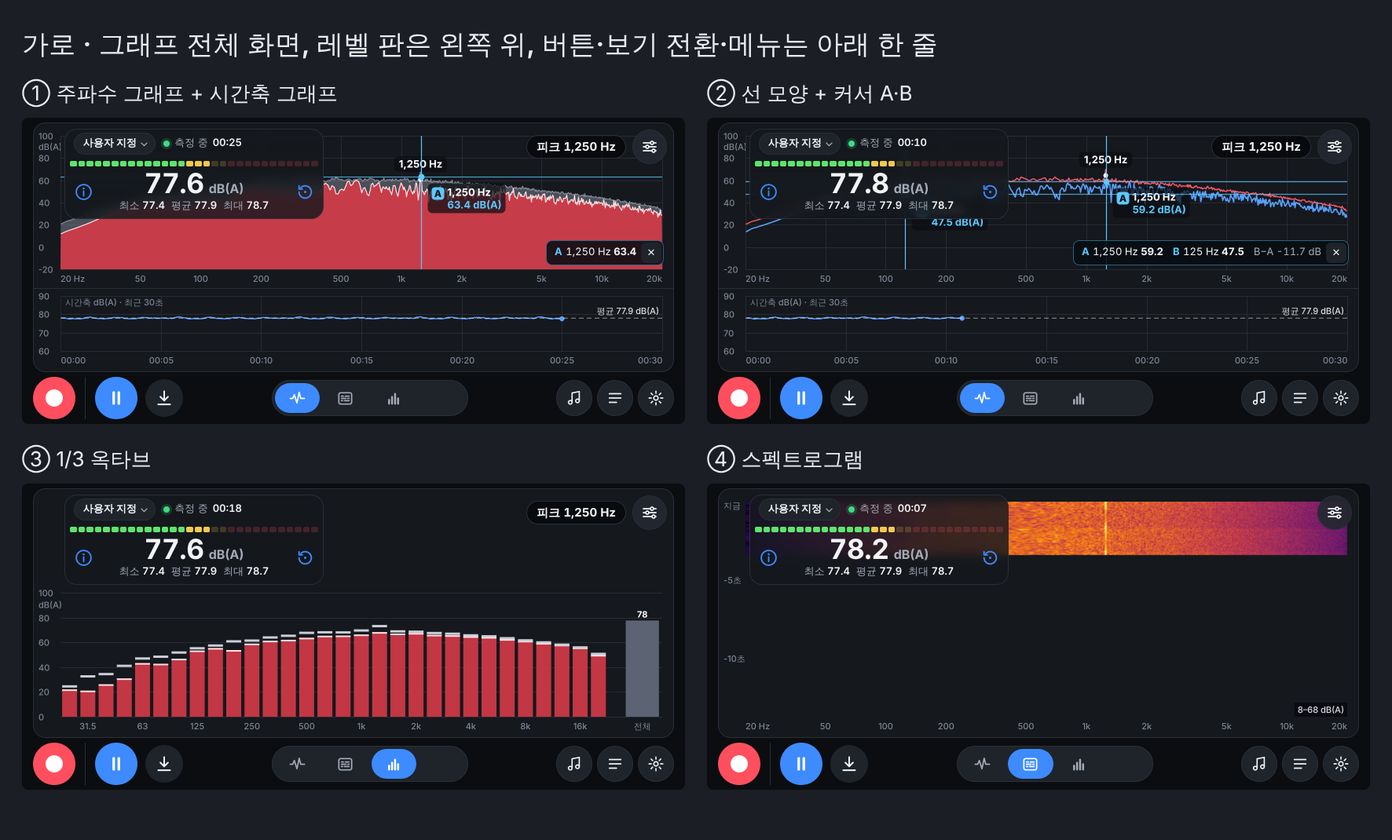
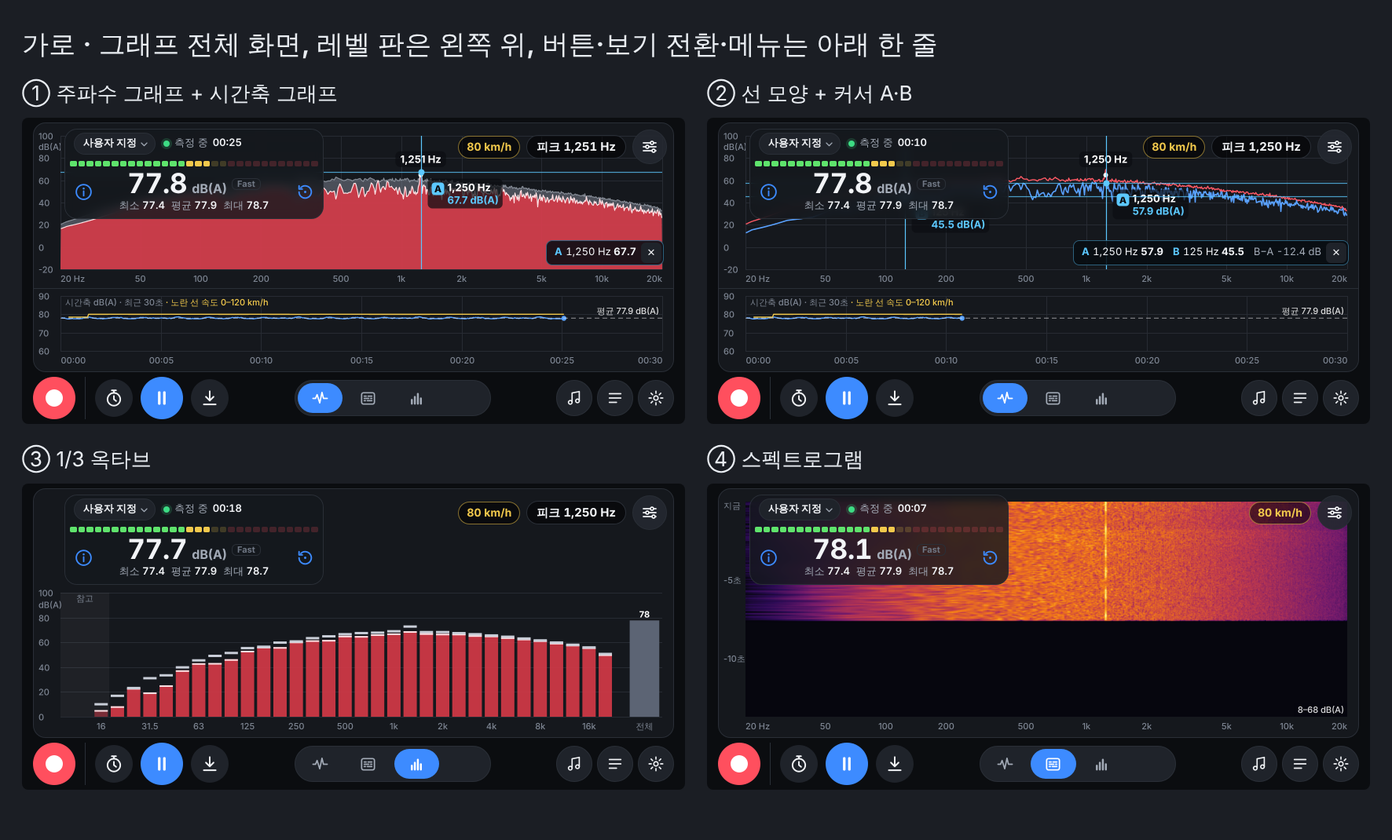
v0.12.0: docs, help, previews and cache list for the new features
README rewritten for everything up to v0.12 (external microphone and
calibration files, Fast/Slow, 저주파, timed measurement, comparison, GPS
speed, pinch zoom, bright screen, backup), with a new preview sheet.
CLAUDE.md describes the new modules and conventions; the help sheet
mentions pinch zoom and the renamed settings sheet. sw.js caches gps.js
and backup.js; version 0.12.0.

Claude-Session: https://claude.ai/code/session_019bnsVk5WHx5aXZAwj9JYTg

diff --git a/js/app.js b/js/app.js
@@ -340,8 +340,8 @@ function helpSheet() {
         <dt>큰 숫자</dt><dd>지금 소음 크기입니다. 숫자 옆 Fast(0.125초)는 빠른 변화를 따라가고, Slow(1초)는 덜 흔들려 읽기 쉽습니다. 설정에서 바꿉니다. 색 막대는 초록 → 노랑 → 빨강, 빨강은 경고 기준 ${s.alertLevel} dB 이상입니다. 밝은 칸 하나는 최대값입니다.</dd>
         <dt>최소·평균·최대</dt><dd>측정을 시작하거나 ↻ 초기화를 누른 뒤의 값입니다. 평균은 에너지 평균(Leq)입니다.</dd>
         <dt>A · C · Z</dt><dd>주파수 가중치. <b>A</b> 보통 소음(사람 귀에 가깝게) · <b>C</b> 엔진·부밍음처럼 저음이 큰 소리 · <b>Z</b> 거르지 않은 소리. 그래프 오른쪽 위 설정 버튼에서 바꿉니다.</dd>
-        <dt>주파수 그래프</dt><dd>위쪽 큰 그래프. 가로는 주파수(20 Hz – 20 kHz), 세로는 dB입니다. 누르면 십자선 커서가 그 주파수의 값을 보여 주고, 한 번 더 누르면 커서 B로 두 곳을 비교합니다. 끌어서 옮기고 × 로 지웁니다.</dd>
-        <dt>⚙ 차트 메뉴</dt><dd>그래프 오른쪽 위 버튼. 차트 스타일(면 · 선 · 막대), <b>최대값 추적</b>·<b>최소값 추적</b>(최근 큰·작은 값을 따라가다 초당 12 dB씩 돌아오는 점선), <b>피크 홀드</b>(초기화 뒤 가장 큰 값), <b>미니멈 홀드</b>(초기화 뒤 가장 작은 값, 주황), 홀드 재설정(이 선들만 새로 시작), 가중치·시간축·FFT·축 설정.</dd>
+        <dt>주파수 그래프</dt><dd>위쪽 큰 그래프. 가로는 주파수(20 Hz – 20 kHz), 세로는 dB입니다. 누르면 십자선 커서가 그 주파수의 값을 보여 주고, 한 번 더 누르면 커서 B로 두 곳을 비교합니다. 끌어서 옮기고 × 로 지웁니다. 두 손가락으로 벌리거나 좁히면 주파수 범위가 바뀌고, "전체 보기"로 돌아갑니다.</dd>
+        <dt>⚙ 차트 메뉴</dt><dd>그래프 오른쪽 위 버튼. 차트 스타일(면 · 선 · 막대), <b>최대값 추적</b>·<b>최소값 추적</b>(최근 큰·작은 값을 따라가다 초당 12 dB씩 돌아오는 점선), <b>피크 홀드</b>(초기화 뒤 가장 큰 값), <b>미니멈 홀드</b>(초기화 뒤 가장 작은 값, 주황), 홀드 재설정(이 선들만 새로 시작), 축 범위, <b>측정 · 그래프 설정</b>(마이크, 가중치, Fast/Slow, 정해진 시간, 속도, 시간축 길이, FFT, 화면 밝기 — 햇빛 아래에서는 "밝게").</dd>
         <dt>축 범위</dt><dd>차트 메뉴의 "축 범위"에서 주파수 범위(전체 · 저음 · 중음 · 고음 또는 직접 입력)와 각 그래프의 dB 범위(자동 / 직접)를 정합니다. "처음대로"로 되돌립니다.</dd>
         <dt>시간축 그래프</dt><dd>아래쪽 작은 그래프. 가로는 측정 시간, 세로는 dB(큰 숫자와 같은 값), 점선은 평균입니다. 보이는 시간(30초 · 1분 · 5분)은 그래프 설정에서 바꿉니다.</dd>
         <dt>보기</dt><dd>${MODES.map((m) => m.label).join(' · ')}. 맨 위 버튼으로 바꿉니다.</dd>

diff --git a/sw.js b/sw.js
@@ -1,6 +1,6 @@
 // Offline support: the app shell is cached so measuring works without signal.
 // Bump VERSION whenever any cached file changes so phones pick up the update.
-const VERSION = 'v0.11.0';
+const VERSION = 'v0.12.0';
 const CACHE = `noise-meter-${VERSION}`;
 const FILES = [
   './',
@@ -12,6 +12,8 @@ const FILES = [
   'js/audio.js',
   'js/dsp.js',
   'js/format.js',
+  'js/backup.js',
+  'js/gps.js',
   'js/levelbar.js',
   'js/level-processor.js',
   'js/meter.js',

diff --git a/js/settings.js b/js/settings.js
@@ -1,6 +1,6 @@
 // Per-device settings (kept in localStorage).
 
-export const APP_VERSION = '0.11.0';
+export const APP_VERSION = '0.12.0';
 
 const KEY = 'noise-meter:settings:v1';
 

diff --git a/README.md b/README.md
@@ -8,6 +8,8 @@
 
 ![측정 상황, 차트 메뉴, 추적·홀드 선, 축 범위](docs/preview-views.png)
 
+![정해진 시간 측정, 전후 비교, 밝은 화면, 기록 모으기](docs/preview-new.png)
+
 ![파일 분석](docs/preview-file.png)
 
 ## 화면
@@ -16,63 +18,71 @@
 
 - **맨 위 보기 전환**(아이콘, 아래에 이름): **주파수 + 시간축**(기본) / 스펙트로그램 / 1/3 옥타브
 - **측정 상황**(보기 전환 아래 왼쪽 "사용자 지정 ⌄" 버튼): 상황을 고르면 여러 설정이 한 번에 바뀝니다.
-  - **공회전**: 세워 두고 엔진 저음을 자세히 — A특성, FFT 16384, 선, 피크·미니멈 홀드, 시간축 1분
-  - **주행**: 달리면서 빠르게 — A특성, FFT 4096, 면, 피크 홀드 + 최대값 추적, 시간축 5분
-  - **실내**: 조용한 곳의 바닥 소음 — A특성, FFT 8192, 선, 피크·미니멈 홀드 + 최소값 추적, 시간축 1분
-  - **사용자 지정**: 직접 고른 설정. 상황을 고른 뒤 설정을 직접 바꾸면 사용자 지정이 되고, 사용자 지정을 다시 고르면 직접 맞춰 둔 설정으로 돌아옵니다. (보기·보정값은 바뀌지 않습니다.)
-- **레벨 판**: 색 막대(초록 → 노랑 → 빨강, 빨강은 경고 기준 이상, 밝은 칸 하나는 최대), 큰 숫자로 **지금 소음**, 그 아래 **최소 · 평균 · 최대**.
-  왼쪽 ⓘ 는 화면 보는 법, 오른쪽 ↻ 는 초기화(최소·평균·최대·최대 스펙트럼·녹음 버퍼 다시 시작)
-- **기본 화면은 그래프 두 개**: 위에 큰 **주파수 그래프**(주파수–dB), 아래에 작은 **시간축 그래프**(시간–dB, 그래프 칸의 약 1/3), 사이에 구분선
-- **주파수 그래프 (FFT 스펙트럼)**: 가로축 주파수 **20 Hz – 20 kHz**(로그) 또는 0 – 20 kHz(선형), 세로축 **주파수 가중치를 적용한 dB**(기본 A특성 dB(A))
-  - 모양 **면**: 빨강 = 지금, 회색 = 피크 홀드 / **선**: 파랑 = 지금, 빨강 = 피크 홀드 / **막대**: 면과 같은 색의 막대
-  - 어느 모양이든 주황 선 = 미니멈 홀드, 분홍 점선 = 최대값 추적, 연주황 점선 = 최소값 추적
+  - **공회전**: 세워 두고 엔진 저음을 자세히 — A특성, Slow, FFT 16384, 선, 피크·미니멈 홀드, 시간축 1분
+  - **주행**: 달리면서 빠르게 — A특성, Fast, FFT 4096, 면, 피크 홀드 + 최대값 추적, 시간축 5분
+  - **실내**: 조용한 곳의 바닥 소음 — A특성, Slow, FFT 8192, 선, 피크·미니멈 홀드 + 최소값 추적, 시간축 1분
+  - **저주파**: 부밍음·웅웅거림 — Z특성(거르지 않음), Slow, FFT 16384, 선, 피크·미니멈 홀드 (1/3 옥타브 보기와 함께)
+  - **사용자 지정**: 직접 고른 설정. 상황을 고른 뒤 설정을 직접 바꾸면 사용자 지정이 되고, 사용자 지정을 다시 고르면 직접 맞춰 둔 설정으로 돌아옵니다. (보기·보정값·축 범위는 바뀌지 않습니다.)
+- **레벨 판**: 색 막대(초록 → 노랑 → 빨강, 빨강은 경고 기준 이상, 밝은 칸 하나는 최대), 큰 숫자로 **지금 소음**(옆에 Fast / Slow), 그 아래 **최소 · 평균 · 최대**.
+  왼쪽 ⓘ 는 화면 보는 법, 오른쪽 ↻ 는 초기화(최소·평균·최대·홀드·녹음 버퍼 다시 시작)
+- **기본 화면은 그래프 두 개**: 위에 큰 **주파수 그래프**(주파수–dB), 아래에 작은 **시간축 그래프**(시간–dB, 그래프 칸의 약 1/3)
+- **주파수 그래프 (FFT 스펙트럼)**: 가로축 **20 Hz – 20 kHz**(로그) 또는 0 – 20 kHz(선형), 세로축 **주파수 가중치를 적용한 dB**(기본 dB(A))
+  - 모양 **면**: 빨강 = 지금, 회색 = 피크 홀드 / **선**: 파랑 = 지금, 빨강 = 피크 홀드 / **막대**
+  - 어느 모양이든 주황 선 = 미니멈 홀드, 분홍 점선 = 최대값 추적, 연주황 점선 = 최소값 추적, 보라 점선 = 비교 기준(아래 "전후 비교")
   - 뚜렷하게 튀는 주파수 2개에 "1,250 Hz"처럼 표시하고, 오른쪽 위에 가장 큰 피크를 보여 줍니다.
+  - **두 손가락으로 벌리거나 좁히면** 주파수 범위가 바뀝니다(손가락 아래 주파수가 그대로 따라옴). "전체 보기"를 누르면 20 Hz – 20 kHz로 돌아갑니다.
 - **십자선 커서**: 그래프를 누르면 세로·가로 선이 곡선과 만나는 점에 "A 1,241 Hz / 56.5 dB(A)"를 띄웁니다. 한 번 더 누르면 커서 B, 아래 줄에 두 값과 차이(B−A). 끌어서 옮기고 × 로 지웁니다.
-- **스펙트로그램**(따로 선택하는 보기): 같은 주파수 축에서 시간에 따른 변화를 색으로 보여 줍니다. 맨 위가 지금이고 아래로 흘러갑니다.
-- **1/3 옥타브**: 25 Hz – 20 kHz 30개 대역 막대(대역 안 FFT 칸의 에너지 합), 대역별 최대 표시, 맨 오른쪽에 **전체** 막대
-- **시간축 그래프**(주파수 그래프 아래): 가로 측정 시간, 세로 소음 크기(큰 숫자와 같은 Fast 값, 0.05초마다)인 선 그래프. 최근 30초 · 1분 · 5분이 오른쪽으로 흘러가고, 점선은 평균입니다.
-  일시정지하면 함께 멈추고, 초기화하면 새로 그립니다.
-- **차트 메뉴(⚙, 그래프 오른쪽 위)**: 누르면 바로 아래에 메뉴가 열립니다(바깥을 누르면 닫힘).
+- **스펙트로그램**(따로 선택하는 보기): 같은 주파수 축에서 시간에 따른 변화를 색으로 보여 줍니다. 맨 위가 지금입니다. 다른 보기를 보는 동안에도 최근 1분을 기억해서, 열면 바로 지난 소리가 보이고 화면을 돌려도 남아 있습니다.
+- **1/3 옥타브**: **10 Hz – 20 kHz** 34개 대역 막대(20 Hz 아래는 "참고" 구역으로 흐리게), 대역별 최대(·최소) 표시, 맨 오른쪽에 **전체** 막대
+- **시간축 그래프**: 가로 측정 시간, 세로 소음 크기(큰 숫자와 같은 값, 0.05초마다). 최근 30초 · 1분 · 5분이 흘러가고, 점선은 평균입니다. 속도(GPS)를 켜면 노란 선으로 속도가 함께 그려집니다.
+- **차트 메뉴(그래프 오른쪽 위 버튼)**: 바로 아래에 메뉴가 열립니다(바깥을 누르면 닫힘).
   - **차트 스타일**: 면 / 선 / 막대
-  - **최대값 추적**: 최근 큰 값을 따라가다 초당 12 dB씩 내려오는 점선(지나간 큰 소리의 흔적)
-  - **최소값 추적**: 최근 작은 값을 따라가다 초당 12 dB씩 올라오는 점선(바닥 소음의 흐름)
-  - **피크 홀드**: 초기화 뒤 가장 큰 값 / **미니멈 홀드**: 초기화 뒤 가장 작은 값(주황)
-  - **홀드 재설정**: 위 선들만 새로 시작(최소·평균·최대, 시간축 그래프는 그대로)
-  - **축 범위**: 축마다 범위를 정합니다. "처음대로"로 되돌립니다.
-    - 가로 주파수(주파수 그래프·스펙트로그램 공통): 전체 20 Hz–20 kHz / 저음 20–500 Hz / 중음 200 Hz–5 kHz / 고음 2–20 kHz, 또는 시작·끝 Hz 직접 입력
-    - 세로 dB: 주파수 그래프, 시간축 그래프, 1/3 옥타브 각각 **자동**(값에 맞춰 늘어남) 또는 **직접**(아래 ~ 위 dB)
-    - 스펙트로그램 색 범위: 자동(가장 큰 값에서 60 dB 아래까지) 또는 직접
-    - 직접을 고르면 지금 화면에 보이는 범위에서 시작합니다. 시간축 그래프의 가로(시간 길이)는 아래 설정에서 30초·1분·5분.
-  - **가중치 · FFT · 기타 설정**: 주파수 가중치 **A / C / Z**, 시간축 그래프 길이(30초 / 1분 / 5분), FFT 크기(2048 / 4096 / 8192 / 16384), 주파수 축(로그 / 선형)
-  - 미니멈 홀드를 켜고 저장하면 기록·공유 이미지에도 주황 선이 남습니다.
-  - A: 보통 소음(사람 귀에 가깝게) · C: 엔진·부밍음처럼 저음이 큰 소리 · Z: 거르지 않은 소리. 바꾸면 최소·평균·최대가 새로 시작합니다.
-- 세로: 위에서부터 보기 전환, 레벨 판, 그래프(남는 높이 전부), 버튼(녹음 ┃ 측정·저장). 가로: 그래프가 화면 가득, 레벨 판은 그래프 왼쪽 위에, 버튼·보기 전환·메뉴는 아래 한 줄
+  - **최대값 추적 · 최소값 추적**: 최근 큰·작은 값을 따라가다 초당 12 dB씩 돌아오는 점선
+  - **피크 홀드 · 미니멈 홀드**: 초기화 뒤 가장 큰 · 가장 작은 값
+  - **홀드 재설정**: 위 선들만 새로 시작
+  - **축 범위**: 가로 주파수(전체 · 저주파 10–200 Hz · 저음 · 중음 · 고음 또는 직접 입력), 그래프마다 세로 dB(자동 / 직접), 스펙트로그램 색 범위. "처음대로"로 되돌립니다.
+  - **측정 · 그래프 설정**:
+    - 측정: **마이크**(휴대폰 기본 / 꽂은 외부 마이크), **주파수 가중치 A / C / Z**, **시간 가중 Fast(0.125초) / Slow(1초)**, **정해진 시간 측정** 길이(5초 / 10초 / 30초 / 1분), **속도 (GPS)** 끔 / 켬
+    - 그래프: 시간축 그래프 길이(30초 / 1분 / 5분), FFT 크기(2048 – 16384), 주파수 축(로그 / 선형), **화면 밝기**(어둡게 / 밝게 — 햇빛 아래에서 읽기 쉬운 밝은 화면)
+- 세로: 위에서부터 보기 전환, 레벨 판, 그래프(남는 높이 전부), 버튼. 가로: 그래프가 화면 가득, 레벨 판은 그래프 왼쪽 위에, 버튼·보기 전환·메뉴는 아래 한 줄
 
-**버튼** (두 묶음으로 나뉨): ● **녹음**(빨강) ┃ ▶⏸ **측정 시작 / 일시정지**(화면과 값 고정) · ⬇ **저장**(지금 스펙트럼과 값, **방금 들린 소리**를 차량번호·메모와 함께 저장)
+**버튼** (두 묶음): ● **녹음**(빨강) ┃ ⏱ **정해진 시간 측정** · ▶⏸ **측정 시작 / 일시정지** · ⬇ **저장**(지금 스펙트럼과 값, **방금 들린 소리**를 차량번호·메모와 함께 저장)
 
-**녹음은 측정과 따로 움직입니다**: 누른 때부터 정지할 때까지 녹음합니다(최대 5분). 녹음 길이는 그래프 위 빨간 "● 녹음 00:12"에 따로 나오고, 위쪽 상태·시계는 측정 시간 그대로입니다.
-측정을 일시정지해도 녹음은 계속되고, 녹음 버튼이 일시정지를 풀지도 않습니다(측정 전이면 마이크만 켭니다). 정지하면 측정은 그대로 이어지고, 녹음은 **파일** 탭에 들어가며 알림의 **분석 보기**를 누르면 바로 녹음 전체를 분석합니다.
-녹음 중에 다른 탭으로 가면 그때까지 녹음한 소리가 파일 탭에 남습니다.
+**녹음은 측정과 따로 움직입니다**: 누른 때부터 정지할 때까지 녹음합니다(최대 5분). 녹음 길이는 그래프 위 빨간 "● 녹음 00:12"에 따로 나옵니다.
+측정을 일시정지해도 녹음은 계속되고, 녹음 버튼이 일시정지를 풀지도 않습니다. 정지하면 측정은 그대로 이어지고, 녹음은 **파일** 탭에 들어가며 알림의 **분석 보기**로 바로 분석합니다.
 
-**녹음 함께 저장**: 앱은 늘 최근 소리(기본 10초)를 기억하고 있어서, 이상한 소리가 난 **뒤에** 저장을 눌러도 그 소리가 남습니다. 기록 화면에서 다시 듣고, 그 소리의 스펙트로그램과 시간축 그래프를 재생 위치와 함께 보고, WAV 파일로 보낼 수 있습니다.
+**정해진 시간 측정(⏱)**: 누르면 처음부터 다시 시작해 **딱 N초**(기본 10초)만 재고 저절로 멈춘 뒤 저장 창을 엽니다. 버튼 둘레가 차오르고 "남은 7초"가 줄어듭니다. 다시 누르거나 일시정지하면 취소, ↻ 초기화하면 N초를 처음부터 다시 잽니다. 저장하면 그 N초의 소리가 함께 남고, 기록에 "10초 측정"으로 표시됩니다.
+
+**전후 비교**: 기록 화면의 **"실시간과 비교"**를 누르면 그 기록의 평균 스펙트럼이 실시간 그래프에 **보라 점선(기준)**으로 겹쳐지고, 그래프 위 "기준 …" 표시에 지금 평균과 기준 평균의 차이(+2.1 dB)가 나옵니다. 커서도 기준 값과 차이를 함께 읽습니다. 가중치가 다른 기록이면 차이 대신 알림이 나옵니다.
+**"다른 기록과 비교"**는 기록끼리 겹쳐 보고 두 평균과 차이를 보여 줍니다. 수리 전에 10초 측정해 저장 → 수리 후 그 기록을 기준으로 다시 10초 측정하는 식으로 씁니다.
+
+**속도 (GPS, 선택)**: 켜면 위치 권한을 묻고, 측정하는 동안 차 속도를 그래프 위(노란 숫자)와 시간축 그래프(노란 선)에 보여 줍니다. 저장하면 평균·최고·저장 순간 속도가 기록·요약 글·공유 이미지·엑셀에 남습니다. **위치 자체는 저장하지 않습니다.**
 
 **파일 분석** (아래 탭 "파일"): 음원·녹음 파일(mp3, m4a, wav, aac, ogg, 동영상의 소리 등)을 열면 파일 전체를 분석합니다.
 
 - 평균(Leq)·최대·최소, 전체 평균·최대 스펙트럼과 피크, 가장 큰 순간
-- 파일 전체의 **스펙트로그램**과 **시간축 그래프**(시간별 dB). 누르면 그 시점으로 이동해 들을 수 있습니다.
-- 재생하면 스펙트럼이 **재생 위치의 소리**로 바뀌고, 두 그래프에 재생 위치 선이 따라갑니다.
-- 레벨 기준: **보정 dB**(이 휴대폰 보정값 적용, 녹음 파일용) / **파일 dBFS**(디지털 크기, 음원용), 가중치 A / C / Z
-- 커서 A·B, 면/선/막대, 로그/선형 그대로 사용. 미니멈 홀드를 켜 두면 전체 최소도 주황 선으로 보입니다. **기록에 저장**하면 파일(30MB 이하)도 함께 남습니다.
-- 처음 5분까지 분석하고, 파일은 휴대폰 안에서만 처리됩니다.
+- 파일 전체의 **스펙트로그램**과 **시간축 그래프**. 누르면 그 시점으로 이동해 들을 수 있고, 재생하면 스펙트럼이 재생 위치의 소리로 바뀝니다.
+- 레벨 기준: **보정 dB**(이 휴대폰 마이크 보정값 적용, 녹음 파일용) / **파일 dBFS**(디지털 크기, 음원용), 가중치 A / C / Z
+- **기록에 저장**하면 파일(30MB 이하)도 함께 남습니다. 처음 5분까지 분석하고, 파일은 휴대폰 안에서만 처리됩니다.
 
-**기록**: 저장한 분석 목록, 상세 화면(스펙트럼 + 커서, 값, 소리), 결과 이미지·요약 글 공유(카톡 등), 엑셀(CSV) 내보내기
+**기록**: 저장한 분석 목록(차량번호·메모·휴대폰 이름으로 찾기), 상세 화면(스펙트럼 + 커서, 측정 평균 선, 값, 소리, 비교), 결과 이미지·요약 글 공유(카톡 등), 엑셀(CSV) 내보내기
 
-**설정 (관리자 비밀번호, 처음 값 `0000`)**: 회사 이름, 저장할 때 남길 소리 길이(없음/5/10/20/30초), 경고 기준(색 막대 빨강), **마이크 보정**, 비밀번호 변경, 기록 삭제
+**기록 모으기 (서버 없이)**: 기록 화면의 **"기록 백업 보내기"**는 이 휴대폰 이름(예: 정비팀 1호)을 묻고, 모든 기록을 **소리까지 파일 하나(.nmb)**로 만듭니다. 메신저·메일로 사무실 휴대폰에 보내 그쪽 기록 화면의 **"백업 파일 넣기"**로 넣으면, 그 휴대폰에 없는 기록만 더해지고 기록 옆에 어느 휴대폰에서 쟀는지 표시됩니다. 같은 파일을 두 번 넣어도 겹치지 않습니다.
+
+**설정 (관리자 비밀번호, 처음 값 `0000`)**: 회사 이름, 저장할 때 남길 소리 길이(없음/5/10/20/30초), 경고 기준(색 막대 빨강), **마이크 보정**(마이크별), 마이크 보정 파일, 비밀번호 변경, 기록 삭제
+
+## 마이크
+
+평소에는 **휴대폰 마이크**로 잽니다(기본값). 외부 측정 마이크는 선택입니다.
+
+- **외부 측정 마이크**(예: Dayton Audio **iMM-6C**, USB-C): 휴대폰에 꽂으면 "새 마이크: … [이 마이크 쓰기]" 알림이 뜨고, 측정 · 그래프 설정의 "마이크"에서도 고를 수 있습니다. 쓰는 동안 화면 위에 "🎤 이름"이 보이고, 보정 전이면 "보정 안 됨"이 붙습니다. 빼면 휴대폰 마이크로 돌아갑니다.
+- 마이크마다 보정값을 따로 기억합니다. 처음 꽂은 외부 마이크는 휴대폰 마이크의 보정값으로 시작하므로, 설정 → 마이크 보정에서 **"보정할 마이크"**로 그 마이크를 고르고 따로 보정하세요.
+- **보정 파일**: 측정 마이크와 함께 받은 주파수 특성 파일(.txt — miniDSP UMIK, Dayton iMM-6C, REW 형식)을 넣으면 스펙트럼·1/3 옥타브의 저음·고음 오차를 바로잡습니다. iMM-6C 파일 첫 줄의 `*1000Hz -40.3`(1 kHz 감도)도 읽어 보여 줍니다. 큰 숫자(전체 dB)는 보정값으로 맞춥니다.
 
 ## 마이크 보정
 
-휴대폰마다 마이크 감도가 달라서 **기기마다 한 번씩** 보정해야 값이 맞습니다.
-설정 → 마이크 보정: 정밀 소음계와 나란히 두고 5초 측정 → 소음계 값 입력 → 적용. 보정값은 그 휴대폰에만 저장됩니다.
+휴대폰·마이크마다 감도가 달라서 **하나씩 한 번** 보정해야 값이 맞습니다.
+설정 → 마이크 보정: 보정할 마이크를 고르고, 정밀 소음계와 나란히 두고 5초 측정 → 소음계 값(Leq, A특성) 입력 → 적용. 보정값은 그 휴대폰에만 저장됩니다.
 
 ## 배포 (GitHub Pages, 무료)
 
@@ -80,32 +90,32 @@
 
 1. 저장소 **Settings → Pages → Build and deployment → Source** 를 **GitHub Actions** 로 바꿉니다.
 2. 기본 브랜치에 코드가 올라가면 `.github/workflows/pages.yml` 이 테스트 후 자동 배포합니다.
-3. 주소는 `https://<계정>.github.io/<저장소>/` 형태입니다.
+3. 주소는 `https://<계정>.github.io/<저장소>/` 형태입니다. (주소를 아는 사람은 누구나 열 수 있습니다. 기록은 각 휴대폰 안에만 있습니다.)
 
 앱을 고친 뒤에는 `sw.js` 의 `VERSION` 을 올려야 휴대폰에 새 버전이 들어갑니다.
 
 ## 측정 방식
 
 - **레벨**(현재·평균·최대·최소): 마이크 신호를 **A특성 또는 C특성 디지털 필터**(IEC 61672 곡선, Z는 거르지 않음)로 거른 뒤 표본 하나하나로 계산합니다.
-  현재·최대·최소는 Fast(125 ms) 시간 가중, 평균은 Leq입니다. 시작·초기화·가중치 변경 후 0.5초는 필터 안정화를 위해 버립니다.
-- **스펙트럼**: Web Audio AnalyserNode의 FFT(블랙만 창) 각 칸에 창 보정과 가중치, 보정값을 더한 칸별 dB입니다.
+  현재·최대·최소는 Fast(125 ms) 또는 Slow(1 s) 시간 가중, 평균은 Leq입니다. 시작·초기화·가중치 변경 후 0.5초는 필터 안정화를 위해 버립니다.
+- **정해진 시간 측정**: 0.05초 단위로 쌓는 측정 시간이 정확히 N초가 되는 순간 멈춥니다(Leq·최대·최소가 그 N초 값).
+- **스펙트럼**: Web Audio AnalyserNode의 FFT(블랙만 창) 각 칸에 창 보정과 가중치, 보정값(+ 보정 파일의 주파수 특성)을 더한 칸별 dB입니다.
   모든 칸을 더하면 전체 소음도가 됩니다. 그래서 칸 하나의 값은 전체 소음도보다 낮고, FFT 크기를 키우면 칸이 좁아져 값이 더 낮아집니다.
-- **1/3 옥타브**: 같은 칸별 값을 대역(중심 1000·2^(n/3) Hz, 25 Hz – 20 kHz)마다 에너지로 더합니다. 낮은 대역에도 칸이 들어가도록 이 보기에서는 FFT 16384(약 2.9 Hz 간격)로 계산합니다.
-- **홀드·추적**: 시작·초기화 뒤 0.5초가 지나고부터 FFT 칸마다 최대·최소를 기억하고(피크·미니멈 홀드), 추적 선은 새 값이 넘으면 바로 따라가고 아니면 초당 12 dB씩 지금 값 쪽으로 돌아옵니다.
-- **피크**: 약 1초로 평균한 스펙트럼에서 주변(±1/3옥타브, 저음에서는 최소 ±12칸)보다 6 dB 이상 튀는 곳을 찾습니다.
-- **녹음**: AudioWorklet이 마이크 원음을 최근 N초 순환 버퍼에 담아 두고, 저장할 때 16비트 WAV로 만듭니다(10초에 약 1MB).
-  녹음 버튼을 누르면 같은 원음을 0.5초씩 보내 모아 두었다가 정지할 때 WAV로 만듭니다(5분에 약 29MB). 압축하지 않으므로 분석 값이 실시간 값과 같습니다.
-  일시정지는 화면·값과 "저장"용 버퍼만 멈추고, 녹음은 멈추지 않습니다.
-- **파일·저장된 소리 분석**: 브라우저가 파일을 48 kHz 모노로 풀고, 실시간과 같은 가중치 필터·Fast 검파로 레벨을,
-  같은 규칙(블랙만 창 FFT 4096, 칸별 dB)으로 스펙트럼을 계산합니다. 긴 파일은 프레임 간격을 늘려 최대 1,500장으로 나눕니다.
+  저장할 때는 지금 스펙트럼, 피크 홀드, 초기화 뒤의 **측정 평균 스펙트럼**(칸별 에너지 평균)을 함께 남깁니다. 전후 비교는 이 평균을 씁니다.
+- **1/3 옥타브**: 같은 칸별 값을 대역(중심 1000·2^(n/3) Hz, 10 Hz – 20 kHz)마다 에너지로 더합니다. 10 Hz 대역에도 칸이 들어가도록 이 보기에서는 FFT 32768(약 1.5 Hz 간격)로 계산합니다.
+- **홀드·추적**: 시작·초기화 뒤 0.5초가 지나고부터 FFT 칸마다 최대·최소를 기억하고, 추적 선은 새 값이 넘으면 바로 따라가고 아니면 초당 12 dB씩 지금 값 쪽으로 돌아옵니다.
+- **피크**: 약 1초로 평균한 스펙트럼에서 주변보다 6 dB 이상 튀는 곳을 찾습니다.
+- **속도**: 휴대폰이 알려 주는 속도를 쓰고, 없으면 위치 사이 거리 ÷ 시간으로 구합니다. 정확도가 50 m보다 나쁜 위치는 버리고, 위치 오차보다 작게 움직이면 서 있는 것(0 km/h)으로 봅니다.
+- **녹음**: AudioWorklet이 마이크 원음을 순환 버퍼에 담아 두고, 저장할 때 16비트 WAV로 만듭니다(10초에 약 1MB). 녹음 버튼은 같은 원음을 모았다가 WAV로 만듭니다(5분에 약 29MB). 압축하지 않으므로 분석 값이 실시간 값과 같습니다.
+- **파일·저장된 소리 분석**: 브라우저가 파일을 48 kHz 모노로 풀고, 실시간과 같은 가중치 필터·시간 가중으로 레벨을, 같은 규칙(블랙만 창 FFT 4096)으로 스펙트럼을 계산합니다.
 - 브라우저의 에코 제거·잡음 제거·자동 음량 조절은 끄고 받습니다.
 
 ## 알아 둘 점
 
 - **스마트폰 측정값은 참고값입니다.** 법정 측정(정밀 소음계)을 대신하지 않습니다.
-- 휴대폰 마이크는 대략 30–100 dB 범위에서 쓸 만하고, 아주 큰 소리에서는 포화될 수 있습니다(저장된 기록에 경고 표시).
+- 휴대폰 마이크는 대략 30–100 dB 범위에서 쓸 만하고, 아주 큰 소리에서는 포화될 수 있습니다(저장된 기록에 경고 표시). 20 Hz 아래는 휴대폰 마이크가 잘 받지 못해 참고로만 보세요.
 - 화면이 꺼지거나 다른 앱으로 바뀌면 측정이 멈추고, 돌아오면 새로 시작합니다. 측정 중에는 화면이 꺼지지 않게 합니다.
-- 기록은 **그 휴대폰 브라우저 안에만** 저장됩니다. 필요하면 엑셀 파일로 보내 두세요.
+- 기록은 **그 휴대폰 브라우저 안에만** 저장됩니다. 필요하면 엑셀 파일이나 기록 백업으로 보내 두세요.
 
 ## 개발
 
@@ -113,20 +123,23 @@
 
 ```
 index.html              화면 틀 (아래쪽 탭: 분석 / 파일 / 기록 / 설정)
-css/app.css             스타일 (검정 계열, 세로·가로 배치)
-js/app.js               화면과 이동 (실시간 분석, 기록, 저장된 기록, 설정)
-js/meter.js             마이크 측정 엔진 (Web Audio, 가중치 A/C/Z, 녹음)
-js/level-processor.js   AudioWorklet: 가중치 필터, Leq, Fast 최대·최소, 소리 버퍼·녹음
-js/spectrum.js          FFT 스펙트럼 그래프 (캔버스, 면/선/막대, 홀드·추적 선, 십자선 커서, 실시간·기록·공유 이미지 공용)
-js/spectrogram.js       스펙트로그램 (실시간 흐름, 저장된 소리 + 재생 위치)
+css/app.css             스타일 (어두운 화면 + 밝은 화면, 세로·가로 배치)
+js/app.js               화면과 이동 (실시간 분석, 파일 분석, 기록, 저장된 기록, 설정)
+js/meter.js             마이크 측정 엔진 (Web Audio, 가중치 A/C/Z, Fast/Slow, 정해진 시간, 녹음)
+js/level-processor.js   AudioWorklet: 가중치 필터, Leq, 시간 가중 최대·최소, 소리 버퍼·녹음
+js/spectrum.js          FFT 스펙트럼 그래프 (면/선/막대, 홀드·추적·평균·비교 선, 커서, 두 손가락 확대, 화면 밝기 색)
+js/spectrogram.js       스펙트로그램 (실시간 흐름 + 최근 1분 기억, 저장된 소리 + 재생 위치)
 js/octave.js            1/3 옥타브 막대 그래프
 js/levelbar.js          LED 색 막대
 js/audio.js             WAV 만들기·읽기, 소리 파일 풀기(mp3·m4a 등)
-js/analysis.js          파일 전체 분석 (레벨 이력, 평균·최대 스펙트럼, 프레임별 스펙트럼, 피크)
-js/timeline.js          시간축 그래프 (파일·기록용, 실시간용)
+js/analysis.js          파일 전체 분석 (레벨 이력, 평균·최대·최소 스펙트럼, 프레임별 스펙트럼, 피크)
+js/timeline.js          시간축 그래프 (파일·기록용, 실시간용 + 속도 선)
 js/dsp.js               신호처리 순수 함수 (A·C 필터 설계, 칸별 dB, 1/3 옥타브 대역, 피크, 리샘플링, FFT·STFT)
+js/mics.js              마이크별 보정, 보정 파일 읽기·주파수 특성 보정
+js/gps.js               위치 → 속도
+js/backup.js            기록 백업 파일 만들기·읽기, 겹치지 않게 넣기
+js/presets.js           측정 상황(공회전·주행·실내·저주파·사용자 지정) 설정 묶음
 js/settings.js          설정 저장
-js/presets.js           측정 상황(공회전·주행·실내·사용자 지정) 설정 묶음
 js/store.js             기록 저장 (IndexedDB)
 js/share.js             공유 이미지, 요약 글, CSV
 js/format.js            표시 형식
@@ -135,11 +148,11 @@ sw.js, manifest.webmanifest, icons/   오프라인·홈 화면 설치
 
 ```bash
 npm start                       # http://localhost:8080 (localhost 에서는 마이크 허용됨)
-npm test                        # 신호처리 단위 테스트 (Node 22, 설치 불필요)
+npm test                        # 신호처리·보정 파일·속도·백업 등 단위 테스트 (Node 22, 설치 불필요)
 NODE_PATH=$(npm root -g) npm run test:e2e   # 크롬에 테스트 음을 마이크로 넣어 전체 흐름 확인 (playwright 필요)
 ```
 
-E2E 테스트는 1 kHz·100 Hz 테스트 음(레벨을 아는 WAV)을 가짜 마이크로 넣고, 앱이 표시한 dB(A)·dB(C)·dB(Z)와 피크 주파수가 계산값과 맞는지,
-커서가 1 kHz를 맞게 읽는지, 주파수 그래프 아래 더 작은 시간축 그래프, 세 가지 보기, 측정 상황 고르기·사용자 지정 되돌리기, 축 범위(주파수 범위를 좁혀도 커서가 맞는지, 잘못된 범위 거절), 차트 메뉴(스타일·추적·홀드·홀드 재설정)와 그래프 설정, 일시정지·초기화, 소리와 함께 저장·재생·WAV 보내기, 보정,
-녹음이 측정과 따로 움직이는지(일시정지 중 녹음 시작·계속, 정지 후에도 측정 계속)와 녹음 → 파일 분석이 제대로 되는지 확인합니다.
-파일 분석은 1 kHz 3초 + 100 Hz 3초 파일을 열어 Leq(에너지 평균)·최대·최소, dBFS 전환, 그래프를 눌러 이동, 기록 저장을 확인하고, 세로·가로 화면을 캡처합니다.
+E2E 테스트는 1 kHz·100 Hz 테스트 음(레벨을 아는 WAV)을 가짜 마이크로 넣고, 앱이 표시한 dB(A)·dB(C)·dB(Z)와 피크 주파수가 계산값과 맞는지 확인합니다.
+그 밖에 커서, 두 그래프 배치, 세 가지 보기, 스펙트로그램이 숨겨진 동안의 소리를 기억하는지, 두 손가락 확대, 측정 상황, 축 범위, 차트 메뉴, 일시정지·초기화, 소리와 함께 저장·재생·WAV 보내기, 보정,
+외부 마이크 고르기(따로 보정값 + 보정 파일 → 큰 숫자와 스펙트럼), 녹음이 측정과 따로 움직이는지, 5초 측정(정확히 5초·소리 5초), 실시간·기록 비교, 주행 속도(가짜 위치로 80 km/h),
+파일 분석(Leq·최대·최소, dBFS 전환, 이동, 저장), 기록 백업 → 다른 휴대폰에 넣기(겹치지 않음)를 확인하고, 세로·가로·밝은 화면을 캡처합니다.

diff --git a/CLAUDE.md b/CLAUDE.md
@@ -4,7 +4,7 @@ This file provides guidance to Claude Code (and other AI assistants) when workin
 
 ## Project Overview
 
-A company-internal real-time noise analyzer web app (PWA) for field use, referencing common analyzer apps but with its own features. It opens on a live FFT spectrum (x: 20 Hz – 20 kHz, y: weighted dB per bin, A by default) under a level panel (LED bar, big current value, min / average / max, help and reset buttons), in portrait and landscape layouts. The main view is two graphs, as the user specified: the frequency graph (spectrum) on top and a smaller time-axis graph (live level over time) below; the spectrogram and 1/3-octave bars are separate views in the mode bar (the needle gauge and a spectrum + spectrogram view were dropped at the user's request). A "측정 상황" button (the reference app's "사용자 지정 ⌄") picks a situation preset — 공회전 / 주행 / 실내 / 사용자 지정 — that sets several settings at once. The chart button opens a menu like the reference app's: chart style (fill / line / bar), max tracking, min tracking, peak hold, minimum hold, hold reset, "축 범위" (axis ranges sheet) and a last item that opens the sheet for A/C/Z weighting, time-axis length (30 s / 1 min / 5 min), FFT size and log/linear. Own features: crosshair A/B cursors, a red record button kept separate from start/pause (record until stop; the recording goes to the file analysis, opened from a toast), attached-file analysis, and "save" that keeps the last N seconds of sound (rolling buffer) with the snapshot for playback and WAV sharing. Snapshots also carry vehicle number and memo, share as image + text, and export as CSV. There is no report feature (the user asked to drop it). UI text is Korean.
+A company-internal real-time noise analyzer web app (PWA) for field use, referencing common analyzer apps but with its own features. It opens on a live FFT spectrum (x: 20 Hz – 20 kHz, y: weighted dB per bin, A by default) under a level panel (LED bar, big current value, min / average / max, help and reset buttons), in portrait and landscape layouts. The main view is two graphs, as the user specified: the frequency graph (spectrum) on top and a smaller time-axis graph (live level over time) below; the spectrogram and 1/3-octave bars are separate views in the mode bar (the needle gauge and a spectrum + spectrogram view were dropped at the user's request). A "측정 상황" button (the reference app's "사용자 지정 ⌄") picks a situation preset — 공회전 / 주행 / 실내 / 저주파 / 사용자 지정 — that sets several settings at once. The chart button opens a menu like the reference app's: chart style (fill / line / bar), max tracking, min tracking, peak hold, minimum hold, hold reset, "축 범위" (axis ranges sheet) and a last item that opens the "측정 · 그래프 설정" sheet (측정: microphone, A/C/Z weighting, Fast/Slow, timed length, GPS speed; 그래프: time-axis length 30 s / 1 min / 5 min, FFT size, log/linear, 화면 밝기). Own features: crosshair A/B cursors, a red record button kept separate from start/pause (record until stop; the recording goes to the file analysis, opened from a toast), attached-file analysis, and "save" that keeps the last N seconds of sound (rolling buffer) with the snapshot for playback and WAV sharing. Snapshots also carry vehicle number and memo, share as image + text, and export as CSV. Added in v0.12 at the user's request ("추천하는 거 다 반영, 판정 표시는 나중에"): an optional external measurement microphone (the user plans a Dayton iMM-6C; the phone's own mic stays the default), a timed "N초 측정" button, before/after comparison (a saved record's average spectrum as a dashed reference on the live graph, and record vs record), optional GPS speed, pinch zoom on the frequency axis, a bright theme for sunlight, and moving records between phones with one backup file (no server). A pass/fail verdict display is deliberately not built yet (the user will ask for it later). There is no report feature (the user asked to drop it). UI text is Korean.
 
 - **Language / runtime:** Vanilla JavaScript ES modules in the browser; Node 22 for tests
 - **Framework(s):** None. Web Audio (AudioWorklet + AnalyserNode), Canvas, IndexedDB, Service Worker
@@ -13,27 +13,29 @@ A company-internal real-time noise analyzer web app (PWA) for field use, referen
 ## Repository Structure
 
 ```
-index.html, css/app.css     App shell (bottom tab bar) and styles (dark only; portrait and landscape analyzer layouts)
-js/app.js                   Screens + hash router (#/ analyzer, #/file attached-file analysis, #/history, #/record/<id>, #/settings); chart-settings and help sheets
-js/meter.js                 Mic meter: getUserMedia -> AudioWorklet (Fast level, Leq/max/min since reset, sound ring buffer, recording) + AnalyserNode (spectrum per bin); setWeighting(A/C/Z)
+index.html, css/app.css     App shell (bottom tab bar) and styles (dark, plus a bright theme on :root[data-theme="light"]; portrait and landscape analyzer layouts)
+js/app.js                   Screens + hash router (#/ analyzer, #/file attached-file analysis, #/history, #/record/<id>, #/settings); chart menu, "측정 · 그래프 설정" sheet, help, backup sheet, applyTheme()
+js/meter.js                 Mic meter: getUserMedia -> AudioWorklet (Fast/Slow level, Leq/max/min since reset, sound ring buffer, recording) + AnalyserNode (spectrum per bin); setWeighting(A/C/Z); measureFor(sec) timed measurement
 js/level-processor.js       AudioWorklet: weighting biquads (replaced by an 'sos' message), energy sums, Fast (125 ms) max/min, raw-sound ring buffer (dump/pause/clear), 'record' on/off -> 0.5 s 'chunk' messages
-js/spectrum.js              drawSpectrum() + SpectrumView: fill/line/bar styles, peak/min hold and max/min tracking curves (curveLook() gives their colours for legends), log/linear axis fixed to 20 kHz, peak labels, crosshair A/B cursors; plotBox/freqToX shared layout
+js/spectrum.js              drawSpectrum() + SpectrumView: fill/line/bar styles, peak/min hold, max/min tracking, avg and dashed ref curves (curveLook() gives their colours for legends), log/linear axis, peak labels, crosshair A/B cursors, two-finger pinch (pinchRange); SPECTRUM_COLORS + setChartTheme('dark'|'light'), DARK_COLORS for the share card; plotBox/freqToX shared layout
 js/octave.js                OctaveView: 1/3-octave bars 10 Hz – 20 kHz (under 20 Hz shaded as a guide) with per-band max/min marks and an overall bar
-js/spectrogram.js           SpectrogramView: live waterfall (newest row on top) and static render from saved sound with playhead
+js/spectrogram.js           SpectrogramView: live waterfall (newest row on top; the last 1200 rows kept on a fixed 1024-point grid so history survives hiding, rotation and axis changes) and static render from saved sound with playhead
 js/audio.js                 encodeWav/decodeWav (16-bit mono PCM), decodeAudioFile (any browser-playable file -> 48 kHz mono, first 5 min)
 js/analysis.js              analyzeSound(): levelHistory + average/max spectrum + per-frame spectra on a 400-point log grid + peaks; frameAt()
-js/timeline.js              TimelineView: a recording's Fast level over time with Leq line and playhead, tap to seek; LiveTimelineView: live trace (last 30 s – 5 min, per-pixel min/max via columnRange)
+js/timeline.js              TimelineView: a recording's level over time with Leq line and playhead, tap to seek; LiveTimelineView: live trace (last 30 s – 5 min, per-pixel min/max via columnRange) with an optional speed line
 js/levelbar.js              LevelBar: LED segments 30–120 dB, green/yellow/red by alert level, held max
 js/dsp.js                   Pure DSP (A/C/Z weighting curves and filter design, binLevelTable/binLevels, BANDS/bandIndex/bandLevels, findPeaks, rangeIndex/reduceRanges, logGrid, fft/stft)
 js/settings.js              localStorage settings (display options, calibration offset, alert level, PIN)
 js/presets.js               Measurement situations: PRESETS, choosePreset(), customize() (pure, unit-tested)
 js/mics.js                  Microphones: per-microphone calibration (micProfile/saveMicProfile), calibration-file parser and frequency-response correction (pure, unit-tested)
+js/gps.js                   haversine(), trackSpeed(): GPS fixes -> km/h (pure, unit-tested)
+js/backup.js                backupBlob()/readBackup()/importPlan(): all records + sound in one .nmb file, import only unknown ids (pure, unit-tested)
 js/store.js                 IndexedDB records (saved snapshots)
 js/share.js                 Share card (canvas PNG), summary text, CSV, share/download helper
 js/format.js                Korean labels and number/date formatting
 sw.js, manifest.webmanifest, icons/   Offline cache and install
 tests/dsp.test.mjs          Unit tests (node:test), including the worklet run in a vm sandbox
-tests/e2e.cjs               Playwright run with a WAV file as fake microphone; screenshots both orientations
+tests/e2e.cjs               Playwright run with a WAV file as fake microphone (also a second fake input, fake geolocation, CDP touch for pinch); screenshots both orientations and the bright theme
 .github/workflows/pages.yml Tests, then deploys to GitHub Pages from the default branch
 ```
 
@@ -52,17 +54,22 @@ No build step. After changing any cached file, bump `VERSION` in `sw.js` (and ad
 - **Measurement chain:** levels come from the worklet (every sample), never from analyser frames. dB SPL = dBFS + per-device `offset` (calibration). The first 0.5 s after start/reset/weighting change is discarded. Calibration always measures with A weighting.
 - **Weighting:** `settings.weighting` ('A' | 'C' | 'Z') applies to the worklet filter, the per-bin spectrum table and file/record analysis alike; units come from `unitOf()` (dB(A), dB(C), dB(Z), dBFS(A) ...). Records store `weighting` and `unit`; old records without them are A.
 - **Spectrum values:** per-bin dB = analyser dB + 10·log10(2/Blackman power) + W(f) + offset, so bins sum to the overall level. Peak labels come from a ~1 s averaged spectrum (steady), not the raw frame. 1/3-octave bands are energy sums of those bins; the octave view runs the analyser at 32768 so every band, 10 Hz included, has bins.
-- **Layouts:** portrait = mode bar, sub row (측정 상황 button, mode name, status), level panel, chart (fills spare height, peak pill + settings button top right), round buttons with captions in two groups (record | start/pause, save); in the main view the time-axis graph always takes the lower third of the chart, below a divider; landscape (>= 600px wide) = chart full screen with the level panel (status in its top row) floating top left, and one bottom row of buttons, mode bar and nav; the tab bar hides on the analyzer in landscape.
+- **Layouts:** portrait = mode bar, sub row (측정 상황 button, mode name, status), level panel, chart (fills spare height, peak pill + settings button top right), round buttons with captions in two groups (record | timed ⏱, start/pause, save); in the main view the time-axis graph always takes the lower third of the chart, below a divider; landscape (>= 600px wide) = chart full screen with the level panel (status in its top row) floating top left, and one bottom row of buttons, mode bar and nav; the tab bar hides on the analyzer in landscape.
 - **Holds:** `newHolds()/updateHolds()` in dsp.js keep per-bin peak hold, minimum hold and max/min tracking (12 dB/s back towards the current level). They start after the meter's 0.5 s warm-up (and 0.4 s after an FFT size change) so start-up silence never becomes the minimum. Settings `peakHold`, `minHold`, `maxTrack`, `minTrack` (old `hold` migrates to `peakHold`); "홀드 재설정" clears only these. Snapshots store `spectrum.min` when minimum hold is on; file analysis has `min` (quietest frame per point).
 - **Measurement situations:** a preset sets `PRESET_KEYS` (weighting, FFT, style, axis, the four curves, time-axis length), never the view or calibration. `settings.preset` is the chosen id; leaving 사용자 지정 stores its values in `settings.custom`, choosing it again restores them. Every change by hand goes through `changeSettings()` (app.js), which turns a chosen preset into 사용자 지정; the analyzer applies any settings change through `applyLive(prev)`.
 - **Time weighting:** `settings.timeWeighting` 'F' (125 ms) or 'S' (1 s) sets the worklet detector ('tau' message) and levelHistory/analyzeSound; part of measurement situations. Records store `timeWeighting`.
-- **Microphones:** the meter opens `settings.micId` (falls back to the default), and the opened track's label picks the calibration: `micProfile(st, label)`; the phone's own microphone (`baseMic`) uses the old `offset`/`calibratedAt`. A calibration file's response is corrected per FFT bin (`binLevelTable(..., correction)`), so spectra, octave bands and holds are corrected; the big level number uses the offset only. Records store `mic` and `micCal`.
+- **Microphones:** the meter opens `settings.micId` (falls back to the default), and the opened track's label picks the calibration: `micProfile(st, label)`; the phone's own microphone (`baseMic`) uses the old `offset`/`calibratedAt`. A calibration file's response is corrected per FFT bin (`binLevelTable(..., correction)`), so spectra, octave bands and holds are corrected; the big level number uses the offset only. Records store `mic` and `micCal`. The phone's own mic is the default; an external one (iMM-6C etc.) is optional, picked in the sheet or from the "새 마이크" toast, and never becomes `baseMic` (`EXTERNAL_MIC` names: USB, iMM, UMIK, headset ...). The calibration card has its own microphone list (`#f-cal-mic`). `parseCalFile()` keeps a Dayton "*1000Hz -40.3" line as `sens1k` and makes files written as absolute sensitivity relative to 1 kHz.
 - **Level trace:** pushed from `onLevel` only when the meter's measured sample count grows (not while warming up or paused), one value per 50 ms worklet block; time labels are measuring time; cleared on reset/weighting change.
 - **Recording is separate from measuring (start/pause):** the record button never resumes a paused measurement (it only starts the mic if it is off), pausing does not stop the worklet's recording (only the display and the "save" ring buffer hold still), and stopping keeps measuring on the analyzer. Raw PCM from the worklet, at most 5 min (`MAX_RECORD_SEC`, the file analysis limit); on stop it becomes a WAV `File` in `openedFile` and a toast offers "분석 보기" (#/file). Leaving the screen mid-recording keeps what was recorded there. The recording has its own clock (`#a-rec-time` in the red badge on the chart); the status clock always shows measuring time.
 - **Frequency axis** defaults to 20 Hz – 20 kHz (log) / 0 – 20 kHz (linear); `freqMin`/`freqMax` narrow it for the live spectrum, the spectrogram and the file screen (saved records and the share card always show the whole range). Axis helpers take a `freqAxis(scale, fmin, fmax)` object; `freqTicks()` gives 1-2-5 decades on a wide log axis and round steps otherwise. The spectrogram uses the same plotBox and axis so columns line up with the spectrum.
 - **Axis ranges:** `specDb`, `traceDb`, `gramDb`, `octDb` are `[lo, hi]` or null (automatic); `checkFreqRange()`/`checkDbRange()` in spectrum.js decide what the sheet accepts. They are not part of measurement situations.
 - **Saved snapshots** store a 241-point log-spaced resample (20 Hz and 20 kHz included) of the current and max-hold spectra (missing points as -999), stats, peaks and, if enabled, `audio` (WAV Blob) + `audioSec`. The record screen recomputes the spectrogram from the WAV with `stft()` (same analyser convention, so levels match the live view).
 - **Attached files** are analysed on the device only: decode -> analyzeSound() with the calibration offset ("보정 dB(A)") or 0 ("파일 dBFS"). Saved file records have `source: 'file'`, `fileName`, `unit`, and keep the original file as `audio` when <= 30 MB. Records with sound (mic or file) rebuild spectrogram + timeline with analyzeSound() on open.
+- **Timed measurement:** the ⏱ button resets, then `meter.measureFor(timedSec)` stops counting at the block that completes N s (blocks are 50 ms) and pauses the meter; the app then opens the save sheet with the last N s of sound (`captureAudio(sec)`; the ring holds max(audioSec, 60 s)). Tapping it again or pausing cancels; reset restarts the N s. Records store `timedSec`. The warm-up drops every block ending within the first 0.5 s.
+- **Average spectrum and comparison:** the analyzer sums per-bin power since reset (after the warm-up) and snapshots store it as `spectrum.avg`. `refCurve(rec)` uses `avg`, else `cur` (a file's average, or an old snapshot's moment). `settings.refId` puts a record on the live graph as `data.ref` (dashed, own frequency points) with a chip comparing Leq (only for the same weighting); cursors read `ref` too; a snapshot taken meanwhile stores `refId` and its record screen compares with it.
+- **GPS speed:** optional (`settings.gps`), watched only while the mic is on; `trackSpeed()` uses `coords.speed` or distance over time; only speed is stored (`speed`, `speedAvg`, `speedMax`), never the position.
+- **Theme:** `settings.theme` 'dark' | 'light'; CSS variables on `:root[data-theme]`, chart colours through `setChartTheme()`; canvas code takes colours from SPECTRUM_COLORS at draw time (no new hard-coded colours). The share card always uses DARK_COLORS.
+- **Backup:** "기록 백업 보내기" writes every record with its sound into one file (magic `NOISEBK1`, 8-hex header length, JSON header, then the sound Blobs); "백업 파일 넣기" adds records whose id is unknown, with `device` (phone name, `settings.device`) and `importedAt`.
 - **Copy:** Korean, plain words. **Escaping:** user text goes through `esc()`; CSV cells are guarded against formula injection.
 - **Testing:** DSP changes need unit tests in `tests/dsp.test.mjs`; flow changes should keep `tests/e2e.cjs` passing.
 
@@ -76,4 +83,5 @@ No build step. After changing any cached file, bump `VERSION` in `sw.js` (and ad
 
 - Phone mic readings are reference values, not legal measurements; keep that disclaimer in the app and shared output.
 - The admin PIN (default `0000`) guards calibration and company settings only; it is a deterrent, not security.
-- Settings and records live per device (localStorage / IndexedDB); there is no server yet.
+- Settings and records live per device (localStorage / IndexedDB); there is no server yet (records move between phones with the backup file).
+- Headless Chromium here names downloads with non-ASCII names "download"; don't assert Korean file names in e2e.
